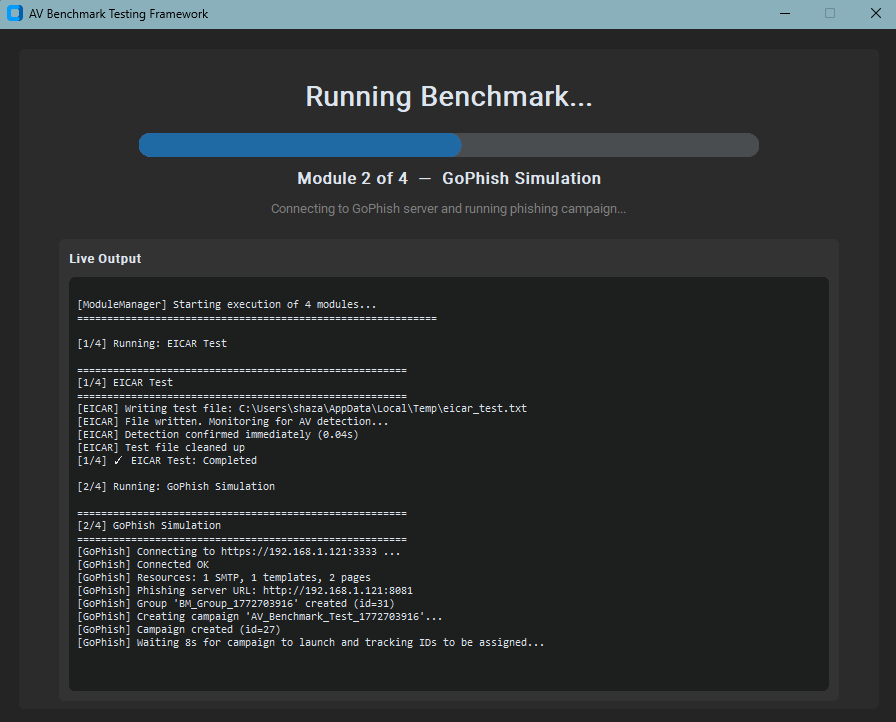
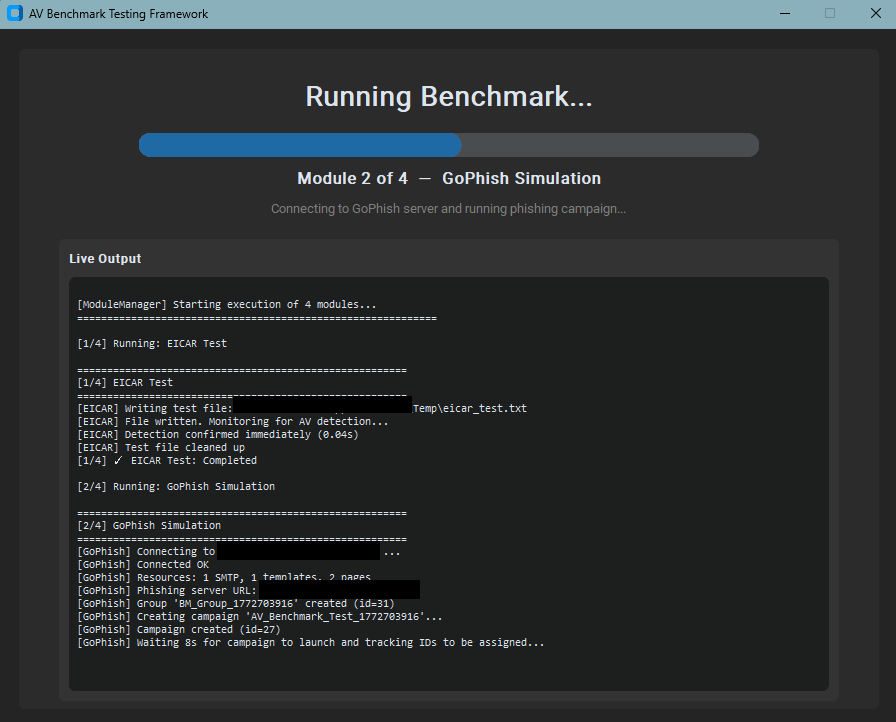
Added gophish screenshot

Changed region(s): [[0.2188, 0.7313, 0.4688, 0.8532], [0.25, 0.5485, 0.4688, 0.5789]]

diff --git a/README.md b/README.md
@@ -163,14 +163,17 @@ Major Project/
 
 ## Screenshots
 
-### Benchmark tool
+### Benchmark Tool
 ![Benchmark Tool](screenshots/Benchmarktool.png)
 
-### Benchmark tool
+### Benchmark Tool In Progress
 ![Benchmark In Progress](screenshots/Benchmarkruninprogress.png)
 
-### Benchmark tool
+### Benchmark Result
 ![Benchmark Result](screenshots/benchmarkcomplete.png)
+
+### GoPhish Dashboard
+![Benchmark Result](screenshots/gophish.png)
 
 ### Dashboard
 ![Dashboard](screenshots/FrontendWebsite.png)
